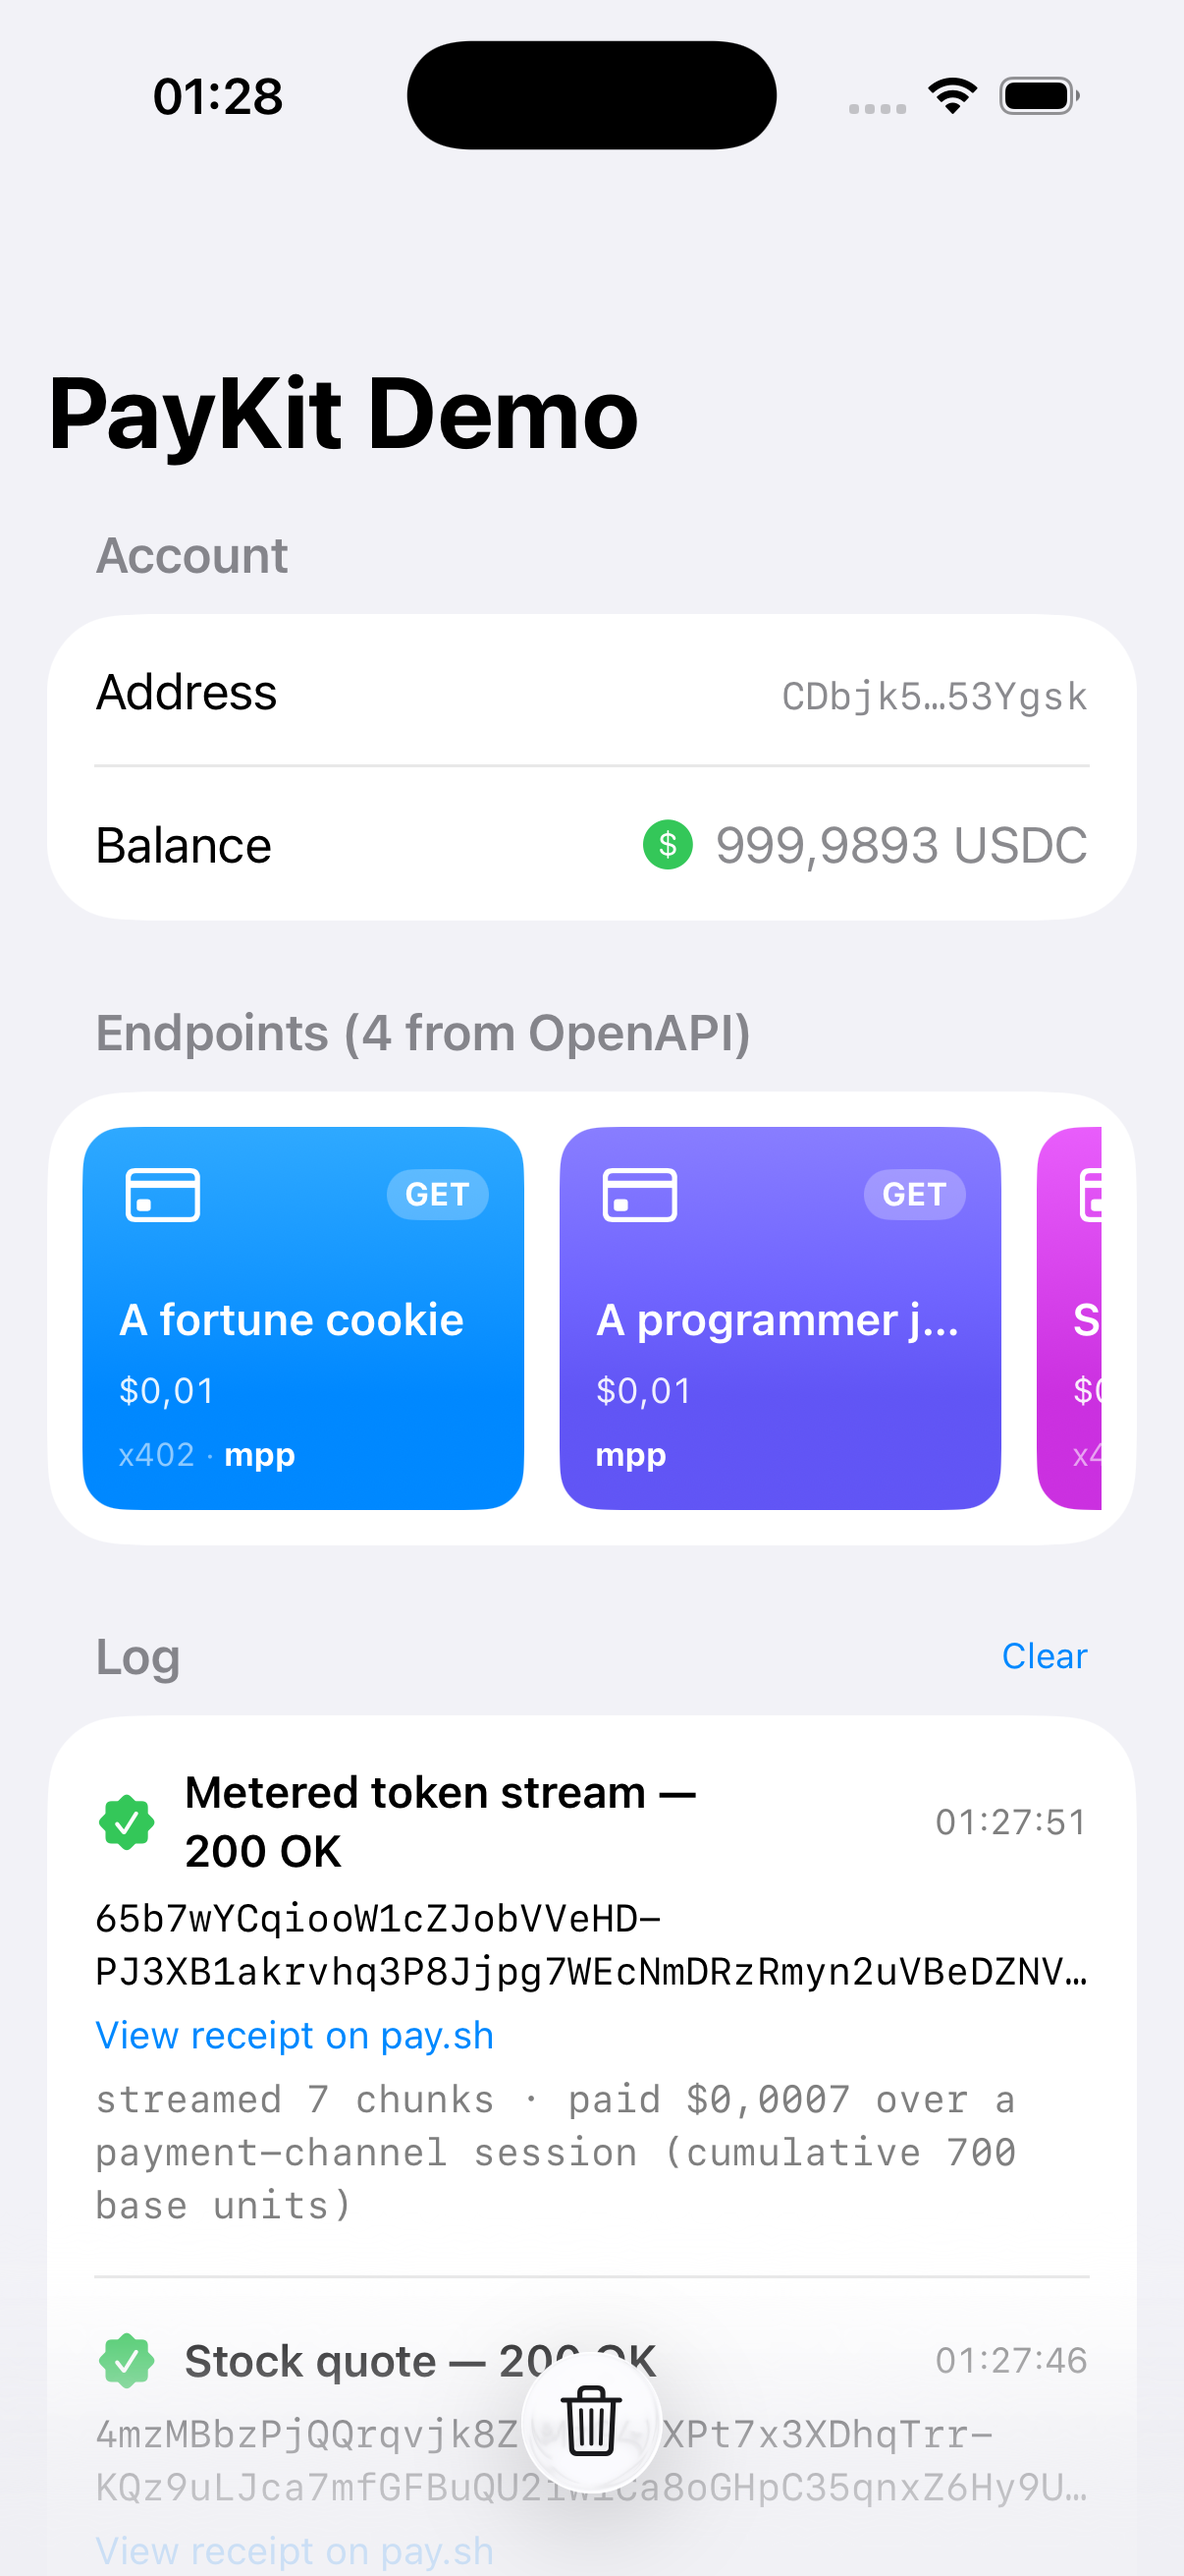
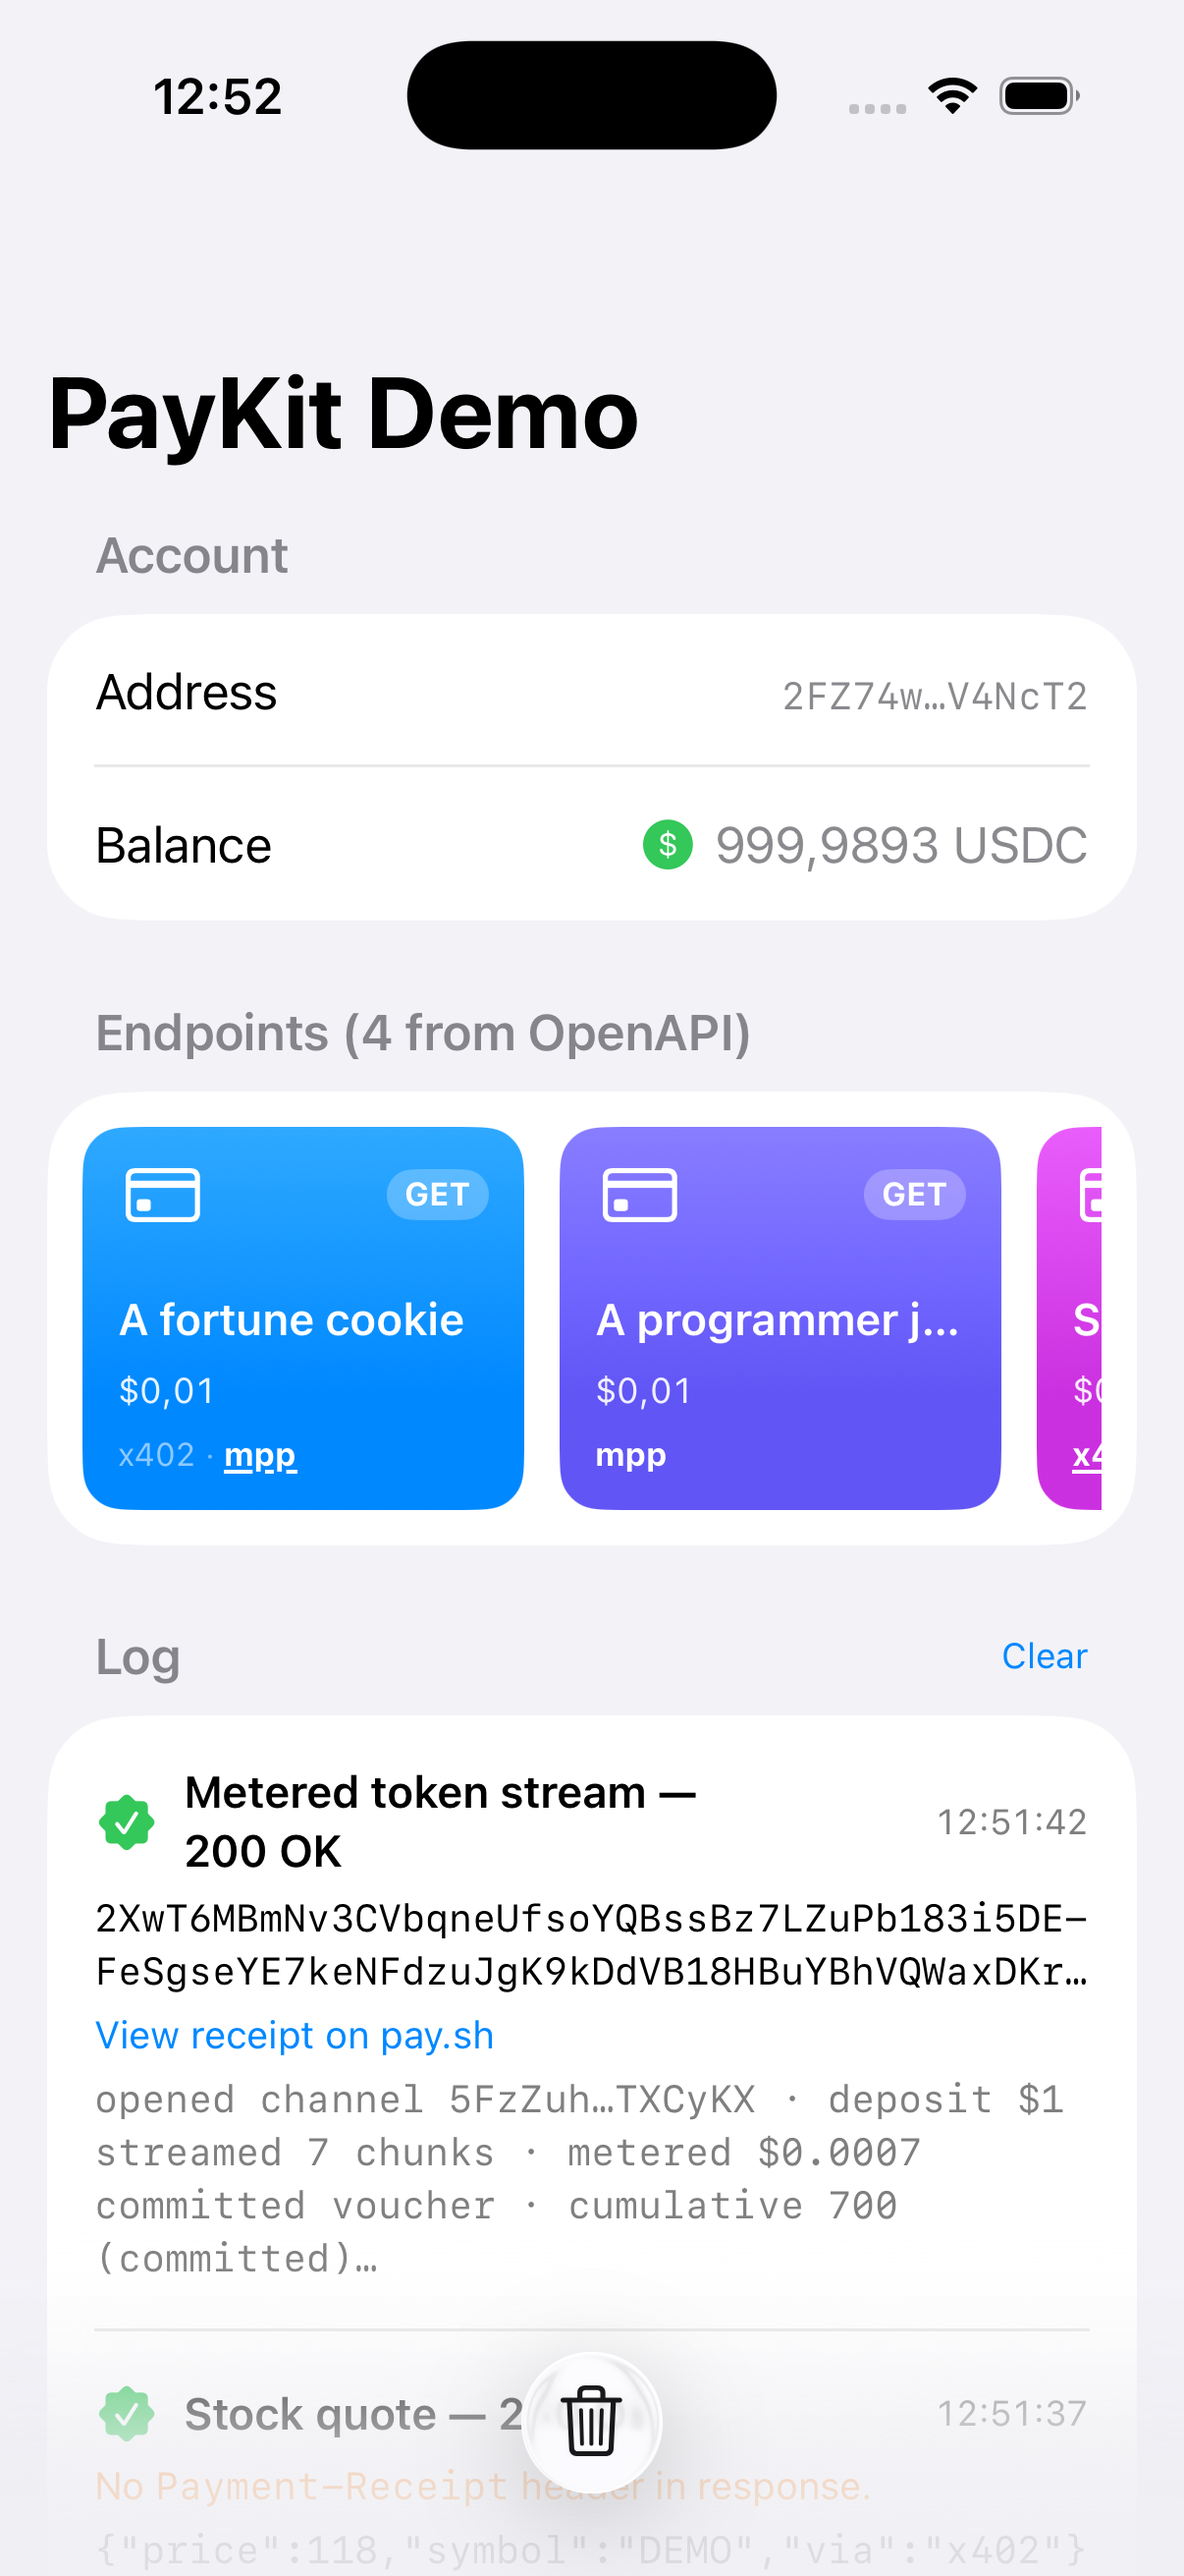
feat(swift/example): show session step trace, label session price as a cap, let user pick the protocol
Address review follow-ups:
- The session result now lists each step's output (opened channel + deposit,
  streamed N chunks + metered amount, committed voucher + cumulative, settled
  signature) so the flow is visible, not a single opaque line.
- Session/upto prices render as 'up to $X' since they are the authorized cap
  (deposit ceiling), not the amount settled — only metered usage is paid.
- Endpoint cards with more than one accepted protocol are tappable to choose
  which to settle over (mpp vs x402); the selected one is emphasized and pay()
  routes to the matching client. x402 settlements surface their bare signature.

diff --git a/swift/Examples/PayKitDemo/PayKitDemo/ContentView.swift b/swift/Examples/PayKitDemo/PayKitDemo/ContentView.swift
@@ -16,6 +16,8 @@ struct ContentView: View {
     @State private var busy: BusyKind?
     @State private var endpoints: [Endpoint] = []
     @State private var endpointsError: String?
+    /// Per-endpoint protocol the user picked to settle over (endpoint id -> method).
+    @State private var protocolChoice: [String: String] = [:]
 
     var body: some View {
         NavigationStack {
@@ -118,9 +120,13 @@ struct ContentView: View {
                 ScrollView(.horizontal, showsIndicators: false) {
                     HStack(spacing: 12) {
                         ForEach(endpoints) { endpoint in
-                            EndpointCard(endpoint: endpoint, busy: busy == .pay(endpoint.id)) {
-                                Task { await pay(endpoint) }
-                            }
+                            EndpointCard(
+                                endpoint: endpoint,
+                                busy: busy == .pay(endpoint.id),
+                                selected: protocolChoice[endpoint.id] ?? endpoint.selectedProtocol,
+                                onTap: { Task { await pay(endpoint) } },
+                                onSelect: { method in protocolChoice[endpoint.id] = method }
+                            )
                             .disabled(busy != nil || signer == nil)
                         }
                     }
@@ -244,11 +250,10 @@ struct ContentView: View {
                     streamURL: playgroundURL.appendingPathComponent(endpoint.path),
                     payer: signer
                 )
-                let paid = Self.formatBaseUnitsUSD(result.totalPaidBaseUnits)
                 append(.success(
                     endpoint: endpoint,
                     signature: result.settleSignature,
-                    body: "streamed \(result.chunks) chunks · paid \(paid) over a payment-channel session (cumulative \(result.cumulative) base units)"
+                    body: result.steps.joined(separator: "\n")
                 ))
                 await refreshBalance()
             } catch {
@@ -272,11 +277,22 @@ struct ContentView: View {
         busy = .pay(endpoint.id)
         defer { busy = nil }
 
-        let client = PayKit.HttpClient.mpp(
-            signer: signer,
-            rpc: RpcClient(endpoint: rpcURL),
-            settlementHeader: "payment-receipt"
-        )
+        // Settle over the protocol the user picked (default: the advertised mpp).
+        let selected = protocolChoice[endpoint.id] ?? endpoint.selectedProtocol
+        let client: PayKit.HttpClient
+        if selected == "x402" {
+            client = PayKit.HttpClient.x402(
+                signer: signer,
+                rpc: RpcClient(endpoint: rpcURL),
+                selection: X402ChallengeSelection()
+            )
+        } else {
+            client = PayKit.HttpClient.mpp(
+                signer: signer,
+                rpc: RpcClient(endpoint: rpcURL),
+                settlementHeader: "payment-receipt"
+            )
+        }
         var headers: [String: String] = ["Accept": "application/json"]
         var body: Data? = nil
         if endpoint.method == .post {
@@ -296,7 +312,11 @@ struct ContentView: View {
                 // signature lives in the envelope's `reference` field;
                 // that's what the pay.sh receipt page expects in its
                 // `/receipt/<sig>` path.
+                // MPP wraps the signature in a base64url Payment-Receipt envelope
+                // (`reference` field); x402 returns the bare settlement signature.
+                // Decode the envelope when present, else use the raw value.
                 let signature = response.settlementSignature.flatMap(Self.signatureFromReceiptHeader)
+                    ?? response.settlementSignature
                 append(.success(
                     endpoint: endpoint,
                     signature: signature,
@@ -408,57 +428,68 @@ struct Endpoint: Identifiable, Hashable {
 private struct EndpointCard: View {
     let endpoint: Endpoint
     let busy: Bool
+    /// The protocol currently selected to settle over (the user's tap choice, or
+    /// the default). Rendered emphasized.
+    let selected: String?
     let onTap: () -> Void
+    let onSelect: (String) -> Void
+
+    /// Charge endpoints that advertise more than one protocol let the user pick
+    /// which to settle over by tapping a method chip.
+    private var selectable: Bool { endpoint.intent == "charge" && endpoint.methods.count > 1 }
 
     var body: some View {
-        Button(action: onTap) {
-            VStack(alignment: .leading, spacing: 8) {
-                HStack {
-                    Image(systemName: endpoint.systemImage)
-                        .font(.title2)
-                    Spacer()
-                    if busy {
-                        ProgressView()
-                            .tint(.white)
-                    } else {
-                        Text(endpoint.method.rawValue)
-                            .font(.caption2.weight(.bold))
-                            .padding(.horizontal, 6)
-                            .padding(.vertical, 2)
-                            .background(Color.white.opacity(0.25))
-                            .clipShape(Capsule())
-                    }
+        VStack(alignment: .leading, spacing: 8) {
+            HStack {
+                Image(systemName: endpoint.systemImage)
+                    .font(.title2)
+                Spacer()
+                if busy {
+                    ProgressView()
+                        .tint(.white)
+                } else {
+                    Text(endpoint.method.rawValue)
+                        .font(.caption2.weight(.bold))
+                        .padding(.horizontal, 6)
+                        .padding(.vertical, 2)
+                        .background(Color.white.opacity(0.25))
+                        .clipShape(Capsule())
                 }
-                Spacer(minLength: 0)
-                Text(endpoint.label)
-                    .font(.subheadline.weight(.semibold))
-                    .multilineTextAlignment(.leading)
-                    .lineLimit(2)
-                Text(endpoint.priceUSD)
-                    .font(.caption.monospacedDigit())
-                    .opacity(0.9)
-                HStack(spacing: 3) {
-                    ForEach(Array(endpoint.methods.enumerated()), id: \.offset) { index, method in
-                        if index > 0 { Text("·").opacity(0.45) }
-                        Text(method)
-                            .fontWeight(method == endpoint.selectedProtocol ? .bold : .regular)
-                            .opacity(method == endpoint.selectedProtocol ? 1.0 : 0.55)
-                    }
-                    if endpoint.intent != "charge" {
-                        Text("·").opacity(0.45)
-                        Text(endpoint.intent).opacity(0.55)
-                    }
-                }
-                .font(.caption2)
-                .lineLimit(1)
             }
-            .padding(12)
-            .frame(width: 150, height: 130, alignment: .topLeading)
-            .background(endpoint.tint.gradient)
-            .foregroundStyle(.white)
-            .clipShape(RoundedRectangle(cornerRadius: 14, style: .continuous))
+            Spacer(minLength: 0)
+            Text(endpoint.label)
+                .font(.subheadline.weight(.semibold))
+                .multilineTextAlignment(.leading)
+                .lineLimit(2)
+            Text(endpoint.priceUSD)
+                .font(.caption.monospacedDigit())
+                .opacity(0.9)
+            HStack(spacing: 3) {
+                ForEach(Array(endpoint.methods.enumerated()), id: \.offset) { index, method in
+                    if index > 0 { Text("·").opacity(0.45) }
+                    let isSelected = method == selected
+                    Text(method)
+                        .fontWeight(isSelected ? .bold : .regular)
+                        .opacity(isSelected ? 1.0 : 0.55)
+                        .underline(isSelected && selectable)
+                        .contentShape(Rectangle())
+                        .onTapGesture { if selectable { onSelect(method) } }
+                }
+                if endpoint.intent != "charge" {
+                    Text("·").opacity(0.45)
+                    Text(endpoint.intent).opacity(0.55)
+                }
+            }
+            .font(.caption2)
+            .lineLimit(1)
         }
-        .buttonStyle(.plain)
+        .padding(12)
+        .frame(width: 150, height: 130, alignment: .topLeading)
+        .background(endpoint.tint.gradient)
+        .foregroundStyle(.white)
+        .clipShape(RoundedRectangle(cornerRadius: 14, style: .continuous))
+        .contentShape(RoundedRectangle(cornerRadius: 14, style: .continuous))
+        .onTapGesture { onTap() }
     }
 }
 

diff --git a/swift/Examples/PayKitDemo/PayKitDemo/SessionStream.swift b/swift/Examples/PayKitDemo/PayKitDemo/SessionStream.swift
@@ -26,6 +26,9 @@ enum SessionStream {
         let totalPaidBaseUnits: UInt64
         let cumulative: String
         let settleSignature: String?
+        /// Ordered trace of each step's output, surfaced in the log so the flow
+        /// is visible (open -> stream -> commit -> settle).
+        let steps: [String]
     }
 
     /// Run the session against `streamURL` (e.g. `<playground>/api/v1/stream`),
@@ -34,6 +37,7 @@ enum SessionStream {
     /// signer for this channel).
     static func consume(streamURL: URL, payer: SolanaSigner) async throws -> Result {
         let session = URLSession.shared
+        var steps: [String] = []
 
         // 1. Unauthenticated GET → 402 session challenge.
         let challenge = try await fetchChallenge(streamURL, using: session)
@@ -53,17 +57,17 @@ enum SessionStream {
         )
         let channelId = opener.open.channelId.base58
         let credential = try serializeSessionCredential(challenge: challenge.echo(), action: opener.action)
+        steps.append("opened channel \(shortId(channelId)) · deposit \(usd(request.cap))")
 
         // 3. Retry the GET with the open credential → 200 SSE; read deliveries.
         let (chunks, totalCost) = try await readStream(streamURL, authorization: credential, using: session)
+        steps.append("streamed \(chunks) chunks · metered \(usd(totalCost))")
 
         // 4. Reserve one aggregate delivery, then sign + commit the voucher.
         var cumulative = "0"
         if totalCost > 0 {
-            let base = streamURL.deletingLastPathComponent()
-            let deliveriesURL = base.appendingPathComponent("__402/session/deliveries", isDirectory: false)
-            // The pay-kit session side channel lives at the resource origin.
-            let originDeliveries = URL(string: "/__402/session/deliveries", relativeTo: streamURL)?.absoluteURL ?? deliveriesURL
+            let originDeliveries = URL(string: "/__402/session/deliveries", relativeTo: streamURL)?.absoluteURL
+                ?? streamURL.deletingLastPathComponent().appendingPathComponent("__402/session/deliveries")
             let commitURL = URL(string: "/__402/session/commit", relativeTo: streamURL)?.absoluteURL
 
             let directive = try await reserveDelivery(
@@ -79,17 +83,20 @@ enum SessionStream {
             )
             let receipt = try await consumer.commitDirective(directive)
             cumulative = receipt.cumulative
+            steps.append("committed voucher · cumulative \(receipt.cumulative) (\(receipt.status.rawValue))")
         }
 
         // 5. Best-effort receipt poll for the settle signature (server idle-closes).
         let settle = try? await pollReceipt(streamURL: streamURL, channelId: channelId, using: session)
+        steps.append(settle != nil ? "settled on-chain · \(shortId(settle!))" : "settle pending (idle-close runs server-side)")
 
         return Result(
             channelId: channelId,
             chunks: chunks,
             totalPaidBaseUnits: totalCost,
             cumulative: cumulative,
-            settleSignature: settle
+            settleSignature: settle,
+            steps: steps
         )
     }
 
@@ -195,6 +202,19 @@ enum SessionStream {
 
     private static func randomSeed() -> Data {
         Data((0..<32).map { _ in UInt8.random(in: 0...255) })
+    }
+
+    private static func shortId(_ value: String) -> String {
+        value.count > 14 ? "\(value.prefix(6))…\(value.suffix(6))" : value
+    }
+
+    private static func usd(_ baseUnits: UInt64) -> String {
+        let dollars = Decimal(baseUnits) / 1_000_000
+        return "$\(NSDecimalNumber(decimal: dollars))"
+    }
+
+    private static func usd(_ baseUnitsString: String) -> String {
+        UInt64(baseUnitsString).map(usd) ?? baseUnitsString
     }
 }
 

diff --git a/swift/Examples/PayKitDemo/PayKitDemo/OpenAPI.swift b/swift/Examples/PayKitDemo/PayKitDemo/OpenAPI.swift
@@ -136,7 +136,11 @@ enum OpenAPI {
         if let amount = offer?["amount"] as? String,
            let baseUnits = Decimal(string: amount),
            let formatted = Self.dollarFormatter.string(from: (baseUnits / 1_000_000) as NSDecimalNumber) {
-            let prefix = (offer?["scheme"] as? String) == "upto" ? "up to " : ""
+            // `upto` usage and `session` deposits are ceilings, not the amount
+            // actually settled — label them so the card price isn't mistaken for
+            // a fixed charge.
+            let scheme = (offer?["scheme"] as? String)?.lowercased()
+            let prefix = (scheme == "upto" || scheme == "session") ? "up to " : ""
             return prefix + "$" + formatted
         }
         if let description = offer?["description"] as? String, !description.isEmpty {
